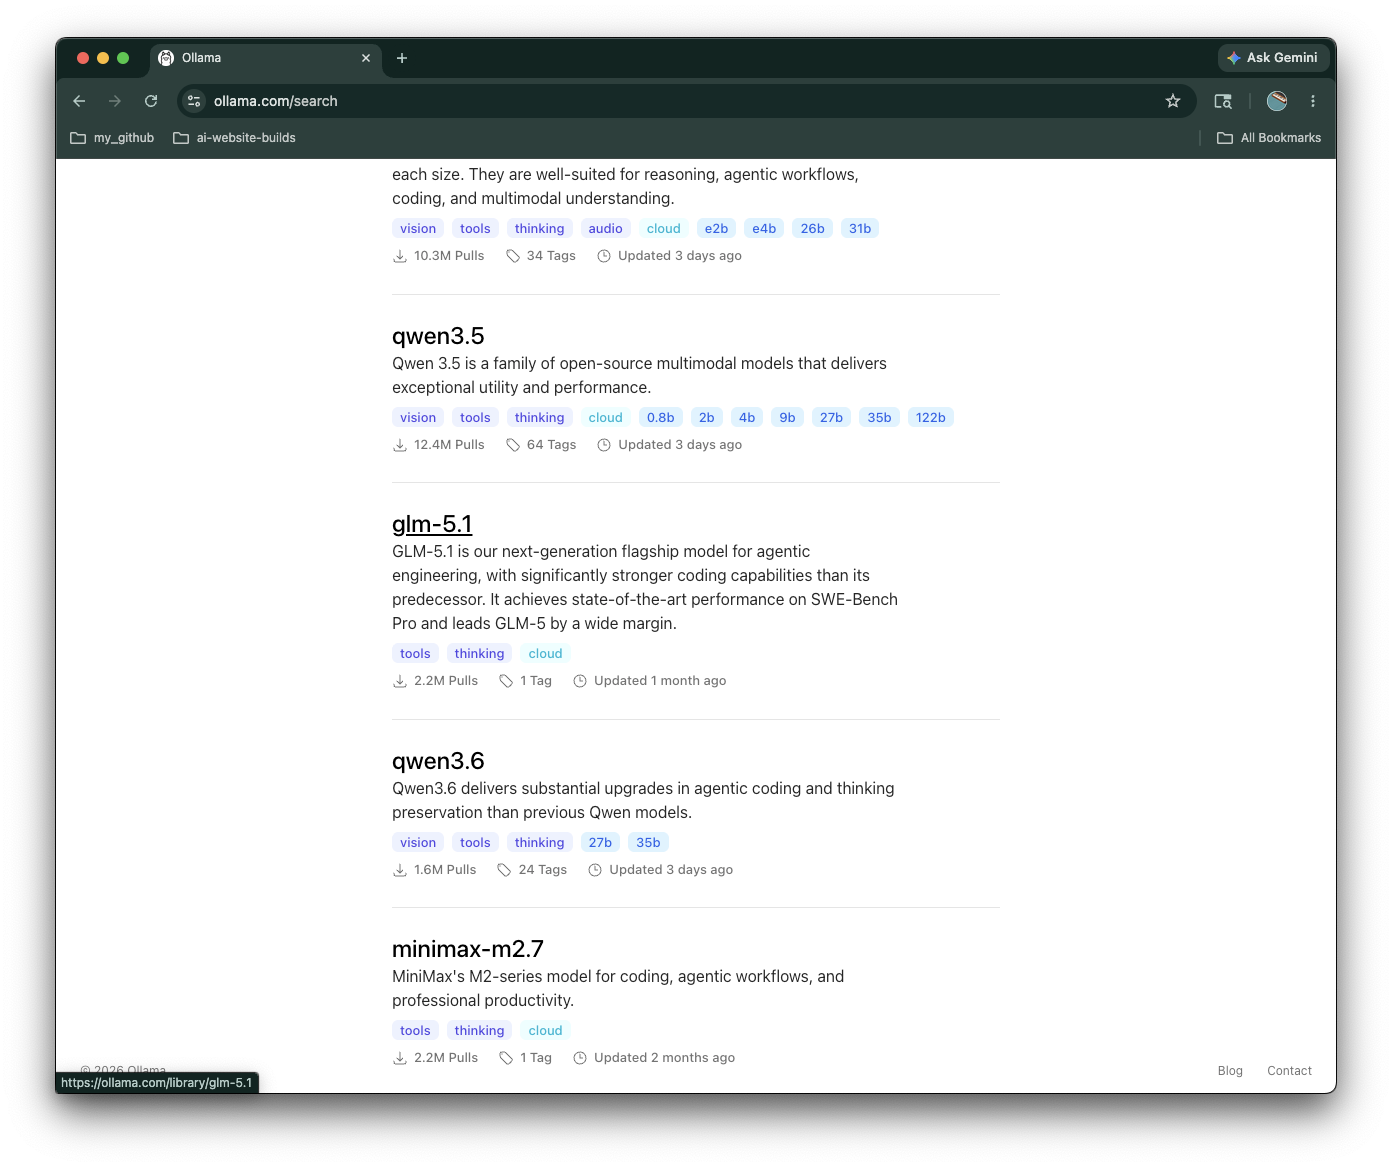
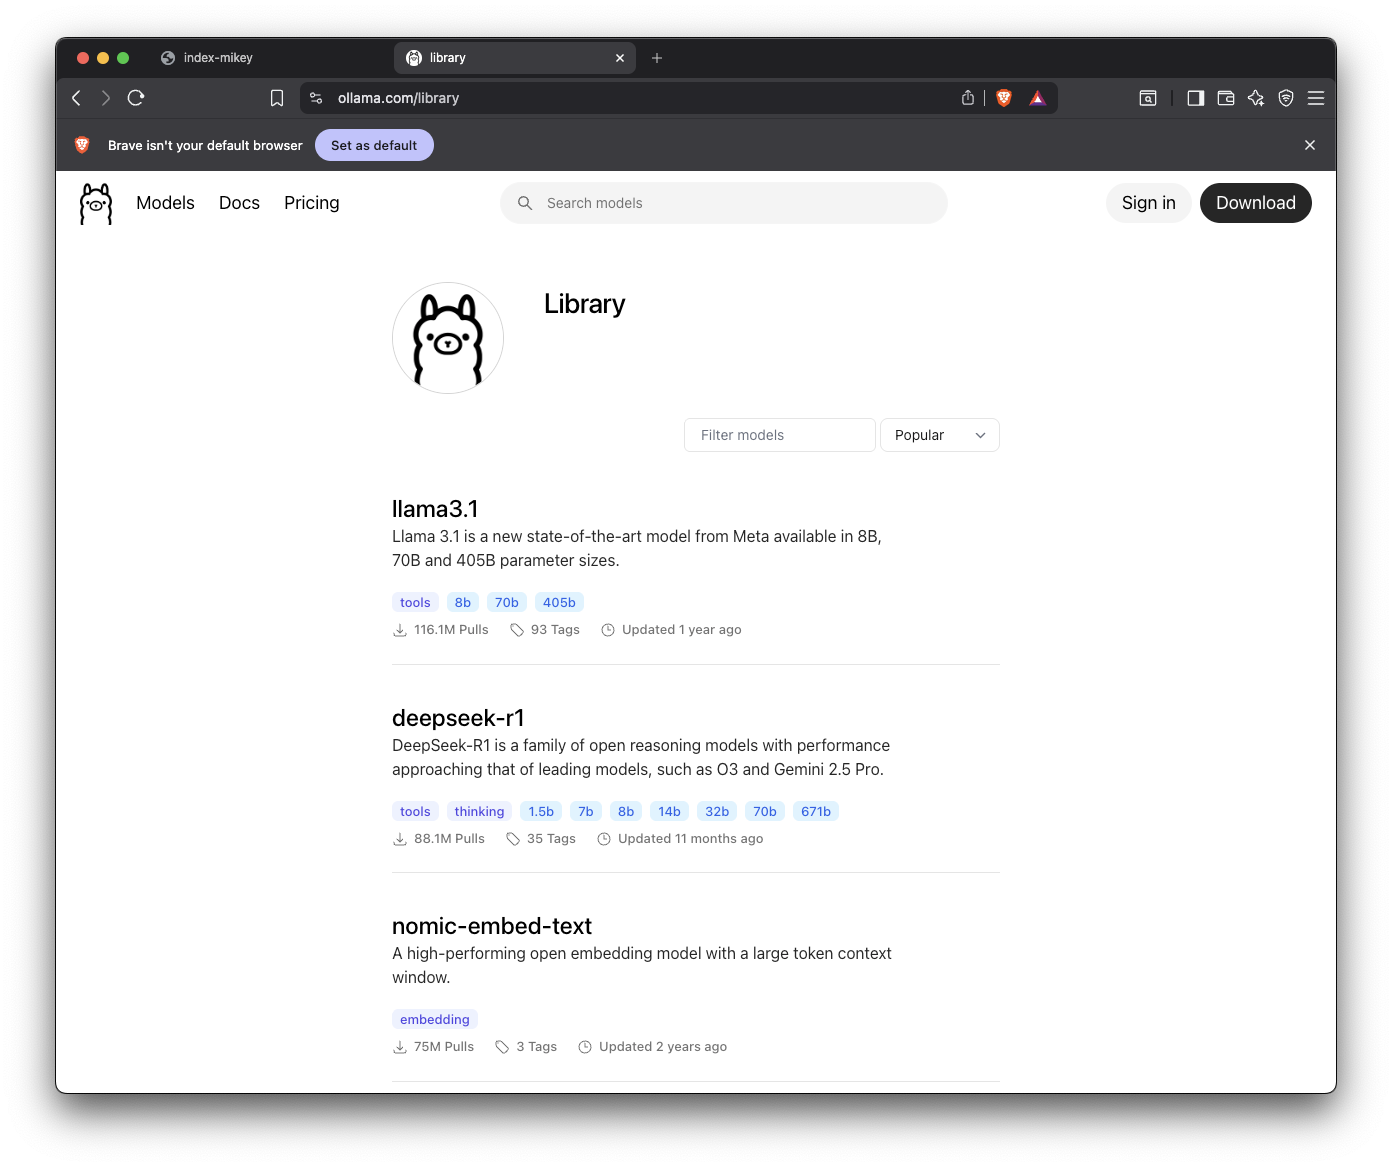
main

diff --git a/topics/01-ollama-full-tutorial-begin/side-bar-links-pages/01/01-03/01-03.html b/topics/01-ollama-full-tutorial-begin/side-bar-links-pages/01/01-03/01-03.html
@@ -1,64 +1,74 @@
 
-
 <div id="targetDiv">
-    <div class="main-container">
-        <header>
-            <h3 id="targetHeaderh3" >01-03 TBD </h3>
-        </header>
-        <div class="steps-container">
-            <!-- 01 -->
-            <div tabindex="0" class="step-float" data-video="https://www.youtube.com/watch?app=desktop&v=pg19Z8LL06w" 
-            data-timestamp="1200">
-                <div class="step-vid ">
-                    <!-- <video playsinline webkit-playsinline poster="sidebar-links/02/images/01.png"
-                    src="sidebar-links/02/images/techNana-docker-02-01.mp4"></video> -->
-                </div>
-                <div  class="step-txt ">
-                    <h4>01</h4>
-                    <p>
-                        After Downloading the dmg, from here 
-                        <a tabindex="0" target="_blank" href="https://docs.docker.com/desktop/setup/install/mac-install/#install-from-the-command-line:~:text=confirm%20your%20choice.-,Install%20from%20the%20command%20line,-After%20downloading%20Docker">
-                            docs.docker.com
-                        </a> 
-                        <br>
-                        try running these commands, remember to put correct <span class="m">&lt;PATH></span> of <code class="m">Docker.dmg</code>
-                    </p>
-                    <div class="code-container">
-                        <pre readonly tabindex="0" class="copy-code">
-sudo hdiutil attach <span class="m">Downloads/Docker.dmg</span></pre>
-                    </div>
-                    <div class="code-container">
-                        <pre readonly tabindex="0" class="copy-code">
-sudo /Volumes/Docker/Docker.app/Contents/MacOS/install</pre>
-                    </div>
-                    <div class="code-container">
-                        <pre readonly tabindex="0" class="copy-code">
-sudo hdiutil detach /Volumes/Docker</pre>
-                    </div>
-                    <p>
-                        <span class="r">Cut and speed up process of video better</span>
-                        This video was confusing but so was installing
-                    </p>
+    <header>
+        <h3 id="targetHeaderh3" >01-02 figure out </h3>
+    </header>
+    <div class="steps-container">
+        <!-- 01 -->
+        <div tabindex="0" class="step-float" data-video="https://www.youtube.com/watch?v=WC0NOMb3Yn0" 
+            data-timestamp="320">
+            <h4>01</h4>
+            <div class="step-vid ">
+                <video preload="none" playsinline webkit-playsinline poster="side-bar-links-pages/01/01-02/images/01.png"
+                src="side-bar-links-pages/01/01-02/images/01.mov"></video>
+                <div class="vid-cntrl-btns">
+                    <button class="fwdBtn">&lt;&lt;</button>
+                    <button class="playbtn">></button>
+                    <button class="rwdBtn">>></button>
                 </div>
             </div>
-            <!-- 2. -->
-            <div tabindex="0" class="step-float" data-video="https://www.youtube.com/watch?app=desktop&v=pg19Z8LL06w" 
-            data-timestamp="1244">
-                <div class="step-vid ">
-                    <!-- <video playsinline webkit-playsinline poster="sidebar-links/02/images/01.png"
-                        src="sidebar-links/02/images/techNana-docker-02-02.mp4">
-                    </video> -->
-
-                </div>
-                <div  class="step-txt ">
-                    <h4>02</h4>
-                    You can now open Docker in Apps
-                    <span class="r">Spped up movie cut beggining at finder window</span>
-                    <p style="color: red;">
-                        I ran in to a lot of issues installing
-                    </p>
-                </div>
+            <div class="step-content ">
+                <p>
+                    Go to <a rel="noopener noreferrer" class="copy-code"
+                    target="_blank" href="https://ollama.com/library">https://ollama.com/library</a>
+                    select and browsw model, are go to the models tab at 
+                    <a rel="noopener noreferrer" target="_blank" href="https://ollama.com/library">https://ollama.com/library</a>
+                    
+                </p>
+                
+                
             </div>
         </div>
+        <!-- 2. -->
+        <div tabindex="0" class="step-float" data-video="https://www.youtube.com/watch?v=WC0NOMb3Yn0"
+            data-timestamp="336">
+            <h4>02</h4>
+            
+            <div class="step-content ">
+                <p>
+                    a good starting model is begginer standard choice
+                    
+                    
+                </p>
+                <div class="code-container">
+                    <code tabindex="0" class="copy-code">
+llama3</code>
+                </div>
+                <p>
+                    <a rel="0" target="_blank" href="https://ollama.com/library/llama3">ollama.com/library/</a>
+                </p>
+                <p>
+                    On older computers, you can try 
+                </p>
+                
+                <div class="code-container">
+                    <code tabindex="0" class="copy-code">
+phi3</code>
+                </div>            
+                <p>
+                    <a rel="0" target="_blank" href="https://ollama.com/library/phi3">ollama.com/library/phi3</a>
+                </p>
+            </div>
+            <div class="imgs-container">
+                <div class="step-img">
+                    <img loading="lazy" src="side-bar-links-pages/01/01-02/images/02.png" alt="">
+                </div>
+                <div class="step-img">
+                    <img loading="lazy" src="side-bar-links-pages/01/01-02/images/02-b.png" alt="">
+                </div>
+                
+            </div>
+        </div>
+        
     </div>
 </div>

diff --git a/topics/01-ollama-full-tutorial-begin/side-bar-links-pages/01/01-02/01-02.html b/topics/01-ollama-full-tutorial-begin/side-bar-links-pages/01/01-02/01-02.html
@@ -21,91 +21,54 @@
                 <p>
                     Go to <a rel="noopener noreferrer" class="copy-code"
                     target="_blank" href="https://ollama.com/library">https://ollama.com/library</a>
-                    select a model
+                    select and browsw model, are go to the models tab at 
+                    <a rel="noopener noreferrer" target="_blank" href="https://ollama.com/library">https://ollama.com/library</a>
+                    
                 </p>
+                
                 
             </div>
         </div>
         <!-- 2. -->
         <div tabindex="0" class="step-float" data-video="https://www.youtube.com/watch?v=WC0NOMb3Yn0"
-            data-timestamp="1207">
+            data-timestamp="336">
             <h4>02</h4>
-            <div class="step-vid ">
-                <video preload="none"  playsinline webkit-playsinline poster="side-bar-links-html/01/01-01/images/01.png"
-                                src="side-bar-links-html/01/01-01/images/techNana-docker-02-01.mp4"></video>
-            </div>
+            
             <div class="step-content ">
                 <p>
-                    Lorem ipsum dolor sit amet consectetur adipisicing elit. Voluptatibus, eum? Quos natus nemo, pariatur fugiat
-                    eveniet quidem ipsa quasi, vero possimus, totam rem. Quae, laborum! Eum earum consectetur possimus corporis.
+                    a good starting model is begginer standard choice
+                    
+                    
                 </p>
                 <div class="code-container">
-                    <pre readonly tabindex="0" class="copy-code">
-TBD PROMPT</pre>
+                    <code tabindex="0" class="copy-code">
+llama3</code>
                 </div>
-                <div class="code-container">
-                    <pre readonly tabindex="0" class="copy-code">
-            TBD PROMPT</pre>
-                </div>
-                <div class="code-container">
-                    <pre readonly tabindex="0" class="copy-code">
-            TBD PROMPT</pre>
-                </div>
-            </div>
-        </div>
-        <!-- 3. -->
-        <div tabindex="0" class="step-float" data-video="https://www.youtube.com/watch?v=WC0NOMb3Yn0"
-            data-timestamp="1207">
-            <div class="step-vid">
-                <video preload="none"  playsinline webkit-playsinline poster="side-bar-links-html/01/01-01/images/01.png"
-                                src="side-bar-links-html/01/01-01/images/techNana-docker-02-01.mp4"></video>
-            </div>
-            <div class="step-content ">
-                <h4>03</h4>
                 <p>
-                    Lorem ipsum dolor sit amet consectetur adipisicing elit. Voluptatibus, eum? Quos natus nemo, pariatur fugiat
-                    eveniet quidem ipsa quasi, vero possimus, totam rem. Quae, laborum! Eum earum consectetur possimus corporis.
+                    <a rel="0" target="_blank" href="https://ollama.com/library/llama3">ollama.com/library/</a>
                 </p>
-                <div class="code-container">
-                    <pre readonly tabindex="0" class="copy-code">
-TBD PROMPT</pre>
-                </div>
-                <div class="code-container">
-                    <pre readonly tabindex="0" class="copy-code">
-TBD PROMPT</pre>
-                </div>
-                <div class="code-container">
-                    <pre readonly tabindex="0" class="copy-code">
-TBD PROMPT</pre>
-                </div>
-            </div>
-        </div>
-        <!-- 4. -->
-        <div tabindex="0" class="step-float" data-video="https://www.youtube.com/watch?v=WC0NOMb3Yn0"
-            data-timestamp="1207">
-            <div class="step-vid ">
-                <video preload="none"  playsinline webkit-playsinline poster="side-bar-links-html/02/images/01.png"
-                                                src="side-bar-links-html/02/images/techNana-docker-02-01.mp4"></video>
-            </div>
-            <div class="step-content ">
-                <h4>04</h4>
                 <p>
-                    Lorem ipsum dolor sit amet consectetur adipisicing elit. Voluptatibus, eum? Quos natus nemo, pariatur fugiat
-                    eveniet quidem ipsa quasi, vero possimus, totam rem. Quae, laborum! Eum earum consectetur possimus corporis.
+                    On older computers, you can try 
                 </p>
+                
                 <div class="code-container">
-                    <pre readonly tabindex="0" class="copy-code">
-TBD PROMPT</pre>
+                    <code tabindex="0" class="copy-code">
+phi3</code>
+                </div>            
+                <p>
+                    <a rel="0" target="_blank" href="https://ollama.com/library/phi3">ollama.com/library/phi3</a>
+                </p>
+            </div>
+            <div class="imgs-container">
+                <div class="step-img">
+                    <img loading="lazy" src="side-bar-links-pages/01/01-02/images/02.png" alt="">
                 </div>
-                <div class="code-container">
-                    <pre readonly tabindex="0" class="copy-code">
-TBD PROMPT</pre>
+                <div class="step-img">
+                    <img loading="lazy" src="side-bar-links-pages/01/01-02/images/02-b.png" alt="">
                 </div>
-                <div class="code-container">
-                    <pre readonly tabindex="0" class="copy-code">
-TBD PROMPT</pre>
-                </div>
+                
             </div>
         </div>
+        
     </div>
 </div>

diff --git a/topics/01-ollama-full-tutorial-begin/index-mikey.html b/topics/01-ollama-full-tutorial-begin/index-mikey.html
@@ -74,11 +74,13 @@
                             <ul  class="drop-snips show">
                                 <li><a    href="side-bar-links-pages/01/01-01/01-01.html" data-video="https://www.youtube.com/watch?v=WC0NOMb3Yn0"
                                      data-timestamp="174" 
-                                    >Install Run</a></li>  
-                                <li><a autofocus href="side-bar-links-pages/01/01-02/01-02.html" data-video="https://www.youtube.com/watch?v=WC0NOMb3Yn0"
-                                     data-timestamp="300">
-                                     Choose model</a></li>  
-                                <li><a href="side-bar-links-pages/01/01-03/01-03.html">TBD 3</a></li>  
+                                    >Install Run Ollama</a></li>  
+                                <li><a  href="side-bar-links-pages/01/01-02/01-02.html" data-video="https://www.youtube.com/watch?v=WC0NOMb3Yn0"
+                                     data-timestamp="320">
+                                     Run / download model</a></li>  
+                                <li><a  href="side-bar-links-pages/01/01-03/01-03.html" data-video="https://www.youtube.com/watch?v=WC0NOMb3Yn0"
+                                     data-timestamp="340">
+                                     Run / download model</a></li>  
                             </ul>
                         </li>
                         <li><a tabindex="0" class="drop-down" data-video="https://www.youtube.com/watch?v=WC0NOMb3Yn0" data-timestamp="824"

diff --git a/topics/js/ui/copy-code.js b/topics/js/ui/copy-code.js
@@ -2,7 +2,12 @@ export function addCopyCode() {
     const copyCodes = document.querySelectorAll('.copy-code')
     copyCodes.forEach(el => {
         el.addEventListener('keydown', e => {
-            if (e.key == 'c' && e.metaKey) {
+            const key = e.key.toLowerCase()
+            if (e.target.tagName == 'A') {
+                console.log('here')
+                return
+            }
+            if (key == 'c' && e.metaKey) {
                 console.log('yes')
                 if (e.target.value) {
                     copyTextToClipboard(e.target.value)
@@ -19,6 +24,7 @@ export function addCopyCode() {
         el.addEventListener('click', e => {
             e.preventDefault()
             e.stopPropagation()
+            if(e.target.tagName == 'A') return
             handleCopy(e)
             animate(el)
             const step = e.target.closest('.step-float')
@@ -36,7 +42,7 @@ export function addCopyCode() {
     function setupCopyShortcut(element) {
         element.addEventListener('keydown', e => {
             // Check Command (metaKey) + C (case-insensitive)
-            if (e.metaKey && (e.key === 'c' || e.key === 'C')) {
+            if (e.metaKey && (key === 'c' || key === 'C')) {
                 e.preventDefault(); // prevent default copy just to be safe
                 handleCopy(e.target);
             }